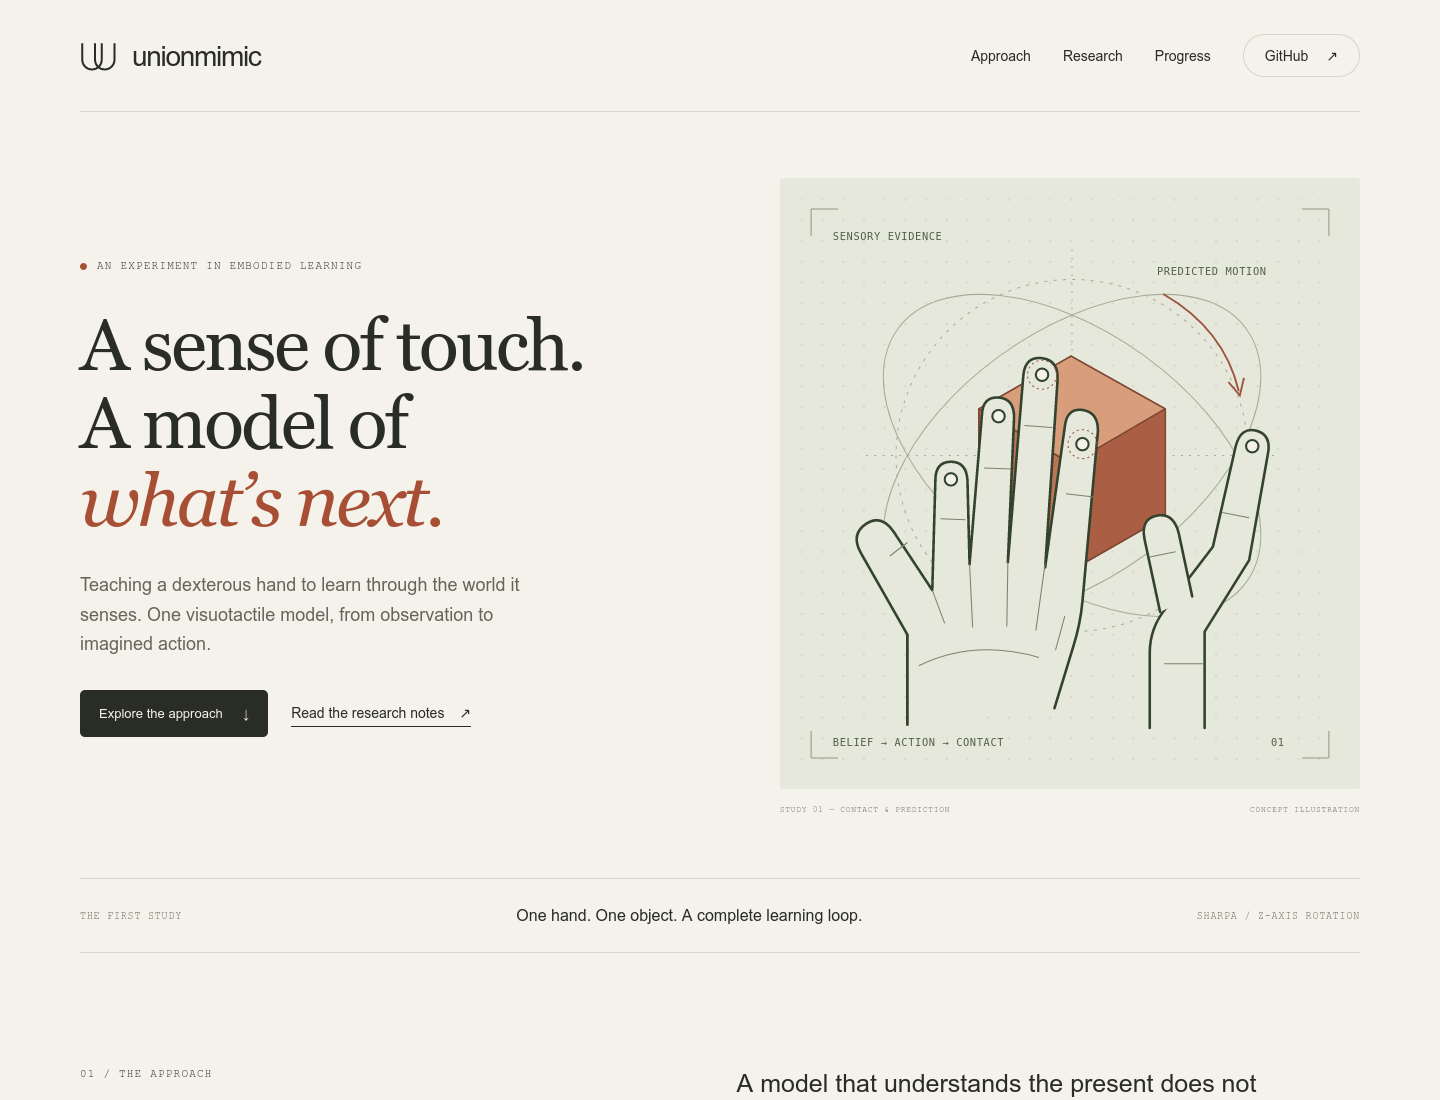
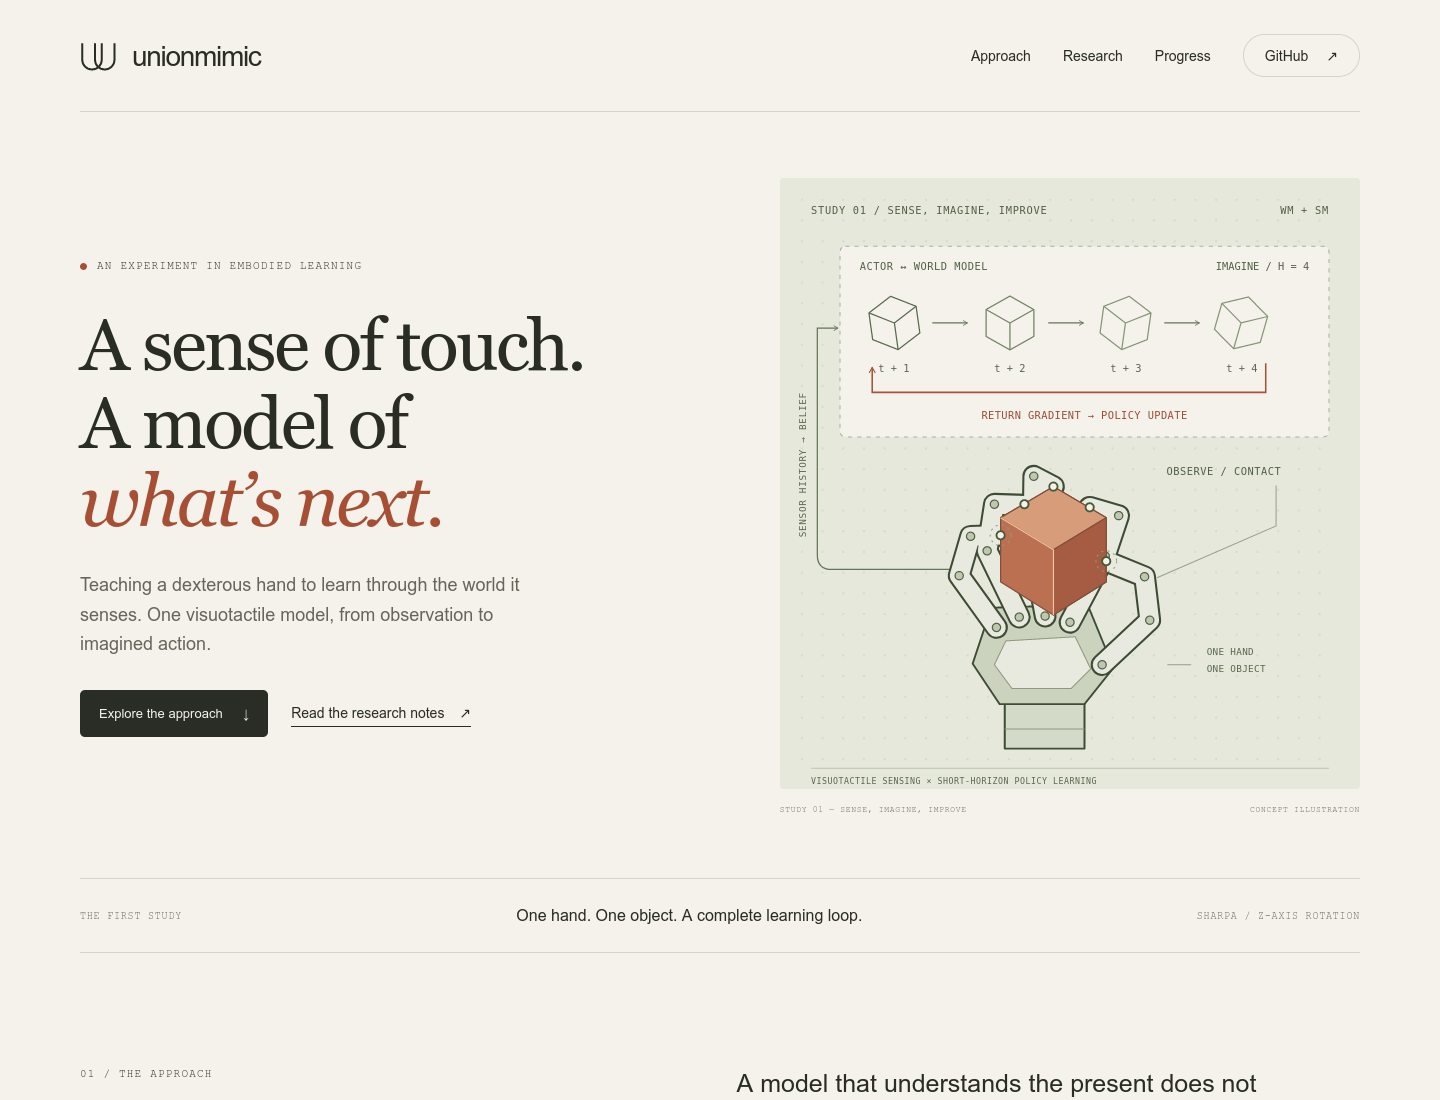
Clarify hand anatomy and illustrate imagined policy gradients

diff --git a/website/index.html b/website/index.html
@@ -27,7 +27,7 @@
         <p class="hero-description">Teaching a dexterous hand to learn through the world it senses. One visuotactile model, from observation to imagined action.</p>
         <div class="hero-actions"><a class="button" href="#approach">Explore the approach <span aria-hidden="true">↓</span></a><a class="text-link" href="https://github.com/LyrineYang/unionmimic/blob/main/docs/INSIGHTS.md">Read the research notes <span aria-hidden="true">↗</span></a></div>
       </div>
-      <figure class="hero-art"><img src="assets/contact-study.svg" width="560" height="590" alt="Conceptual line drawing of articulated fingers around a rotating object, with contact points and predicted paths."><figcaption><span>STUDY 01 — CONTACT &amp; PREDICTION</span><span>CONCEPT ILLUSTRATION</span></figcaption></figure>
+      <figure class="hero-art"><img src="assets/contact-study.svg" width="560" height="590" alt="Conceptual diagram of one connected mechanical hand holding an object, four imagined future states, and a return-gradient arrow inside the learned model."><figcaption><span>STUDY 01 — SENSE, IMAGINE, IMPROVE</span><span>CONCEPT ILLUSTRATION</span></figcaption></figure>
     </section>
 
     <div class="scope wrap" aria-label="Project scope"><span>THE FIRST STUDY</span><p>One hand. One object. A complete learning loop.</p><span>SHARPA / Z-AXIS ROTATION</span></div>
